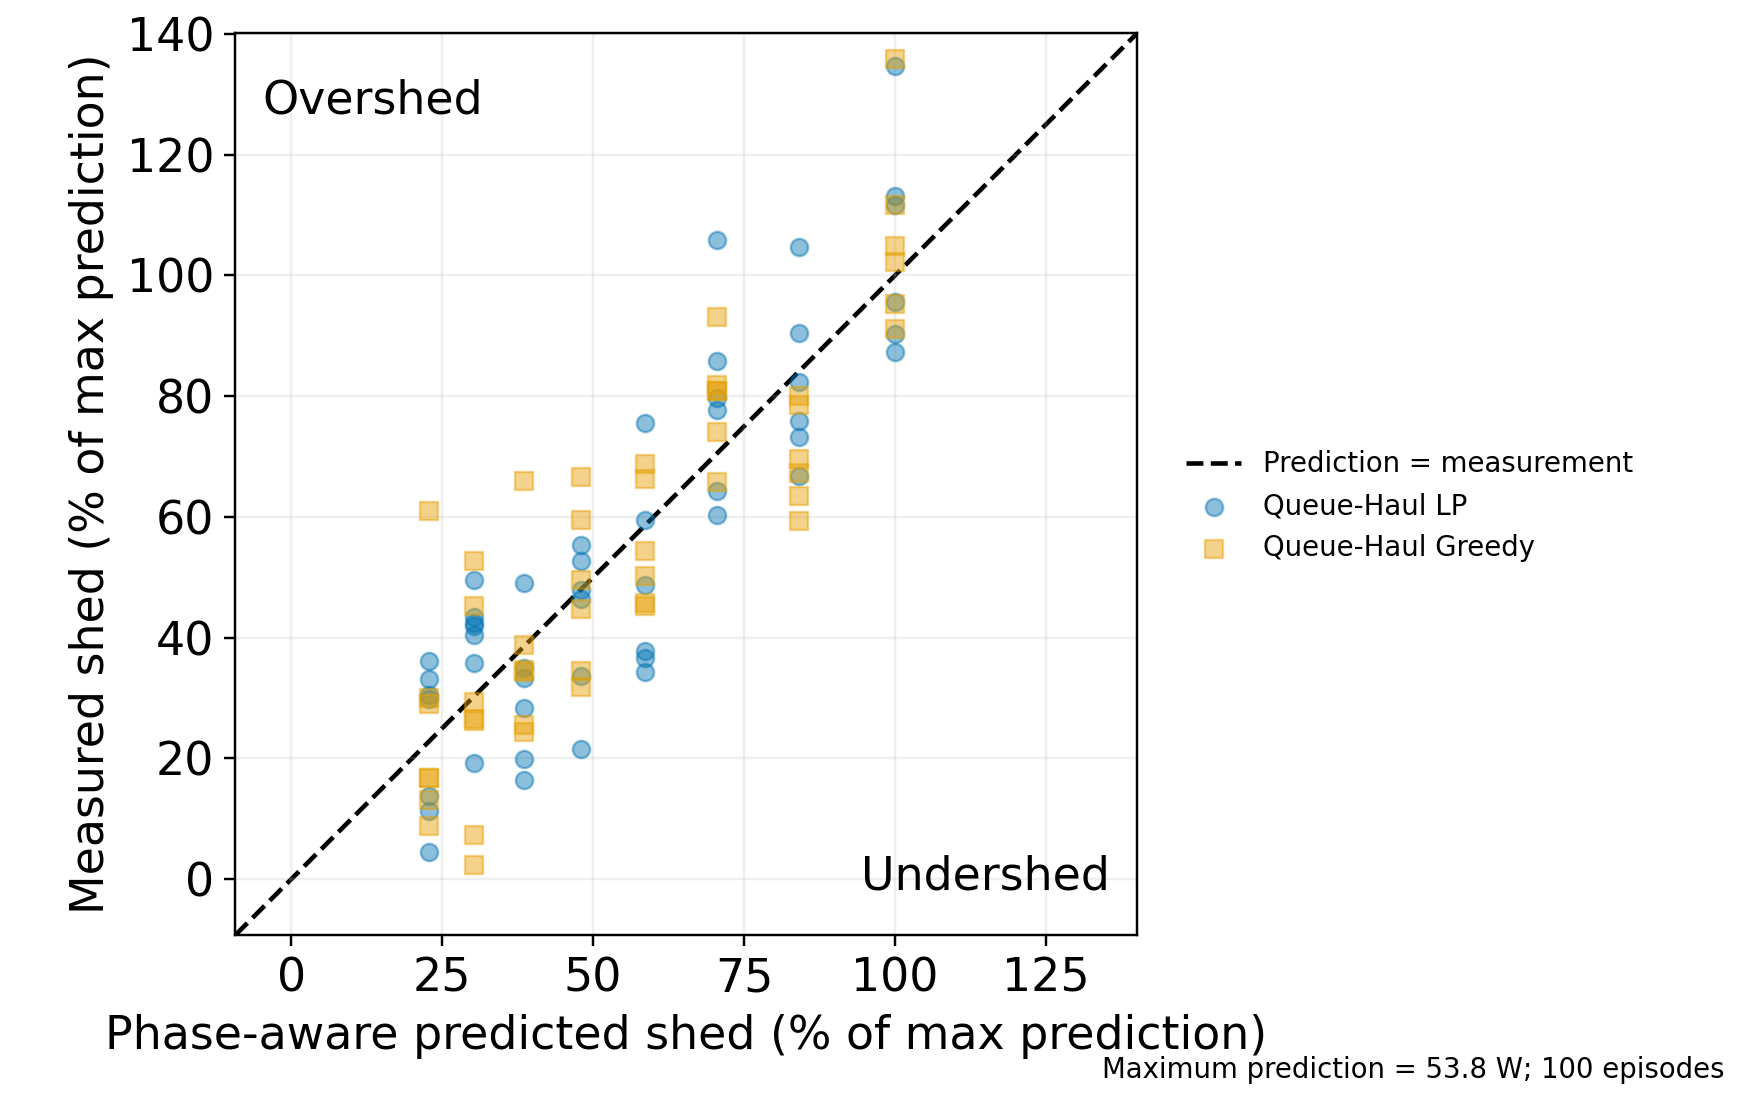
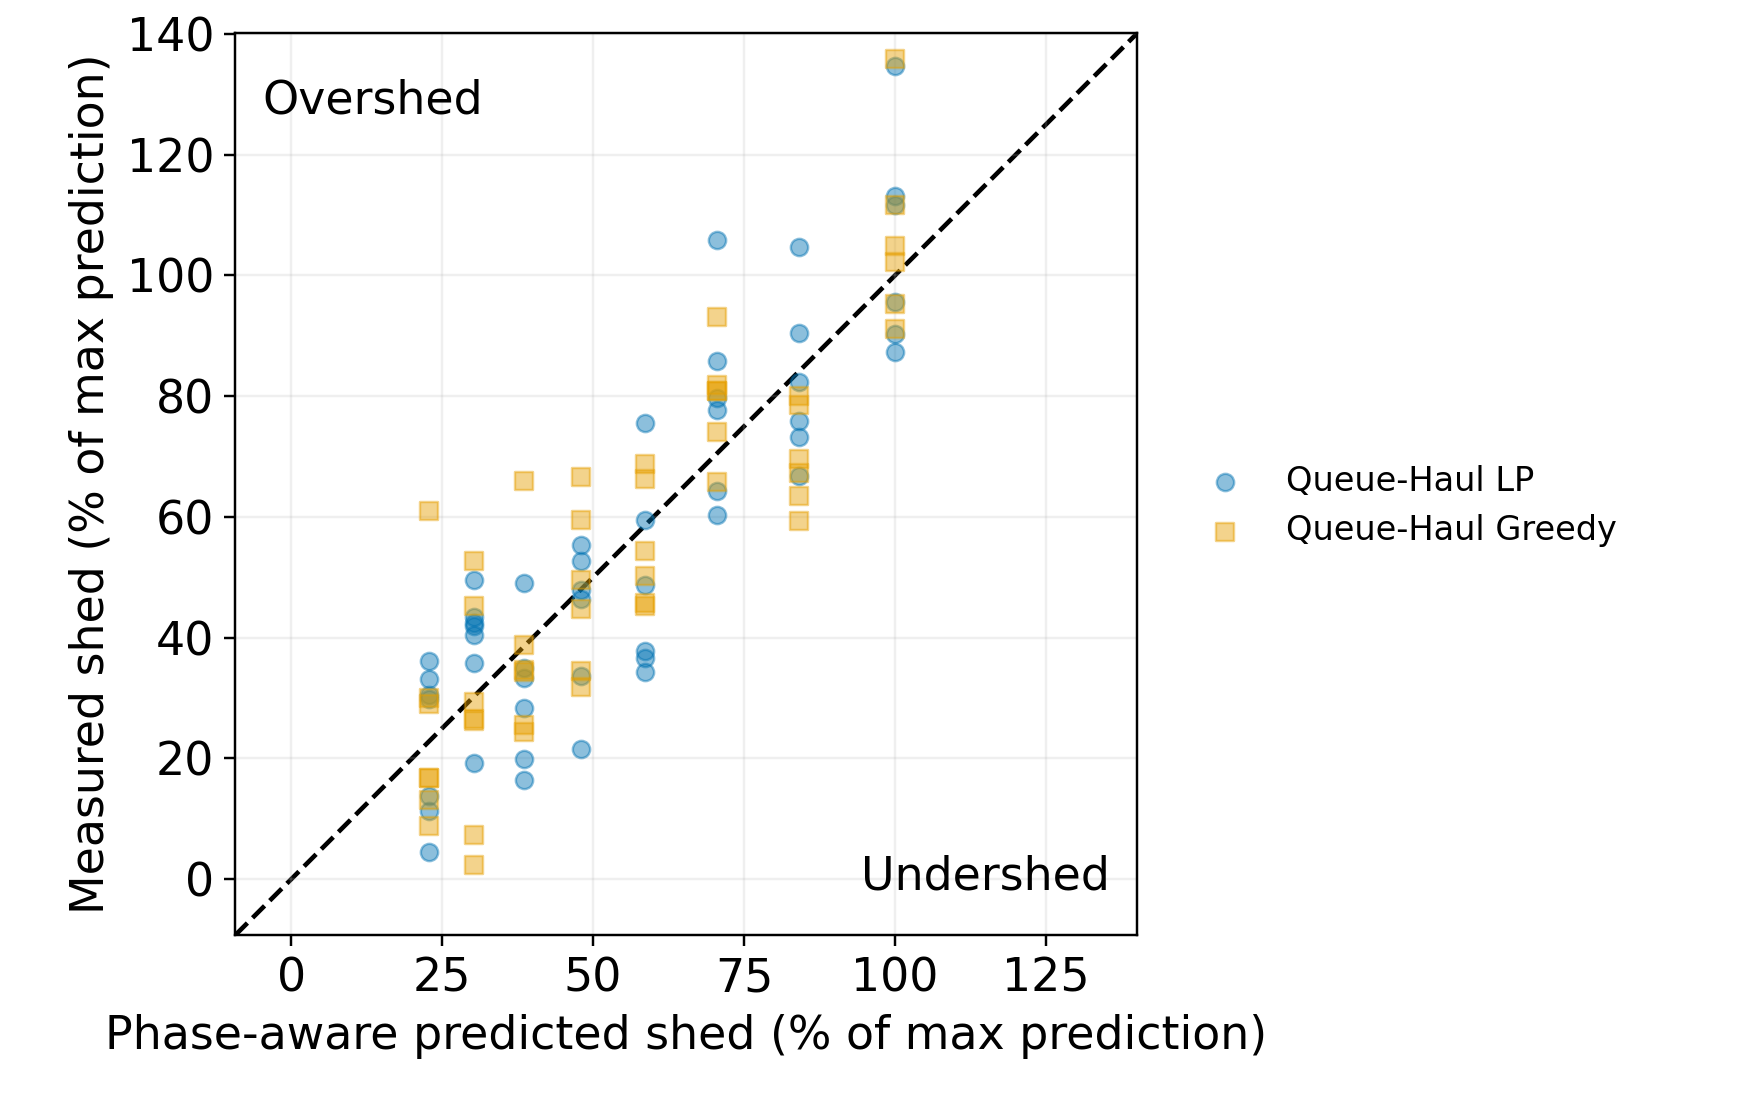
Simplify power parity annotations

Changed region(s): [[0.6875, 0.4018, 0.9375, 0.5255], [0.625, 0.9582, 0.9688, 0.9891]]

diff --git a/agent-migrate/queue-haul/plot_hardware_power_parity.py b/agent-migrate/queue-haul/plot_hardware_power_parity.py
@@ -187,7 +187,7 @@ def write_csv(rows: list[dict], out: Path) -> None:
         writer.writerows(rows)
 
 
-def write_plot(rows: list[dict], scale: float, out: Path) -> None:
+def write_plot(rows: list[dict], _scale: float, out: Path) -> None:
     plotted = [row for row in rows if row["method"] in PLOT_METHODS]
     values = [row[key] for row in plotted
               for key in ("predicted_percent", "measured_percent")]
@@ -196,7 +196,7 @@ def write_plot(rows: list[dict], scale: float, out: Path) -> None:
     limits = lower - padding, upper + padding
     fig, axis = plt.subplots(figsize=plot_style.FIGSIZE)
     axis.plot(limits, limits, color="black", linestyle="--", linewidth=1.5,
-              label="Prediction = measurement", zorder=1)
+              zorder=1)
     for method in PLOT_METHODS:
         selected = [row for row in plotted if row["method"] == method]
         axis.scatter(
@@ -214,11 +214,8 @@ def write_plot(rows: list[dict], scale: float, out: Path) -> None:
     axis.set_aspect("equal", adjustable="box")
     axis.grid(alpha=.2)
     handles, labels = axis.get_legend_handles_labels()
-    fig.legend(handles, labels, frameon=False, fontsize=9,
+    fig.legend(handles, labels, frameon=False,
                loc="center left", bbox_to_anchor=(.66, .54))
-    fig.text(.98, .02,
-             f"Maximum prediction = {scale:.1f} W; {len(plotted)} episodes",
-             ha="right", fontsize=9)
     fig.subplots_adjust(left=.13, right=.65, bottom=.15, top=.97)
     out.parent.mkdir(parents=True, exist_ok=True)
     for suffix in ("png", "pdf"):

diff --git a/agent-migrate/queue-haul/tests/test_hardware_power_parity.py b/agent-migrate/queue-haul/tests/test_hardware_power_parity.py
@@ -14,6 +14,7 @@ import csv
 import matplotlib.pyplot as plt
 import pytest
 
+import plot_style
 from plot_hardware_power_parity import (
     METHODS, PLOT_METHODS, normalize, predicted_shed, settled_pre_available,
     source_power_shed, write_plot,
@@ -102,4 +103,10 @@ def test_plot_preserves_all_methods_repeats_and_parity(tmp_path, monkeypatch):
     assert all(len(collection.get_offsets()) == 2 for collection in axis.collections)
     assert {collection.get_label() for collection in axis.collections} == \
         {"Queue-Haul LP", "Queue-Haul Greedy"}
+    legend = plt.gcf().legends[0]
+    assert {text.get_text() for text in legend.texts} == \
+        {"Queue-Haul LP", "Queue-Haul Greedy"}
+    assert {text.get_fontsize() for text in legend.texts} == \
+        {plot_style.LEGEND_FONT_SIZE}
+    assert not plt.gcf().texts
     assert {text.get_text() for text in axis.texts} >= {"Overshed", "Undershed"}
